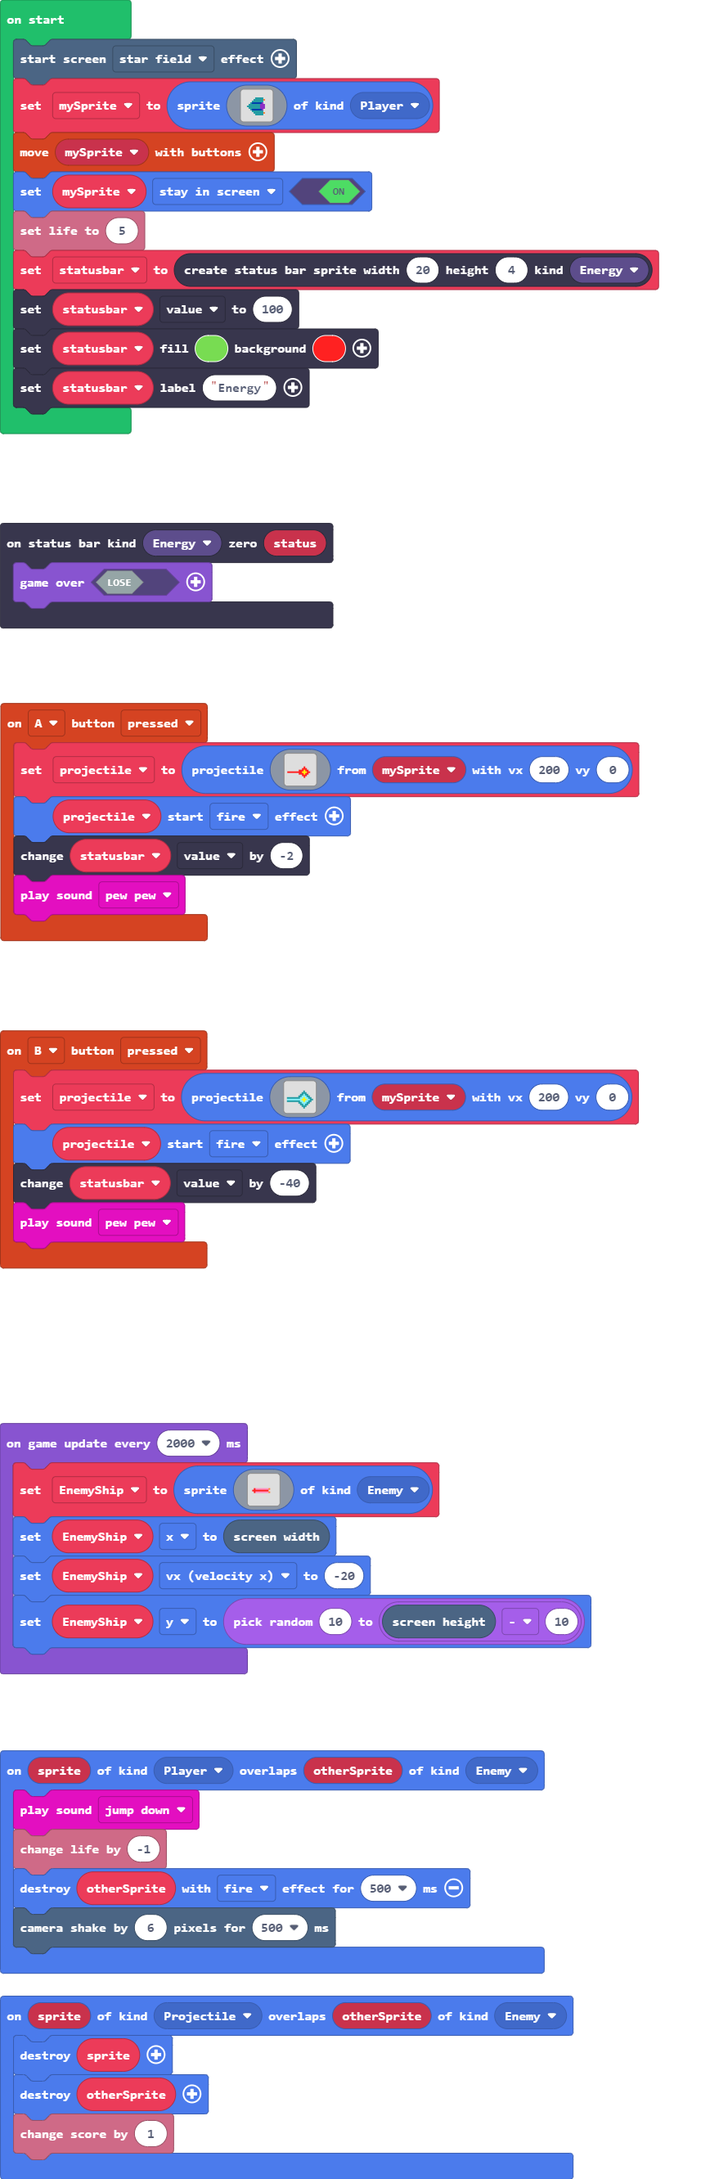
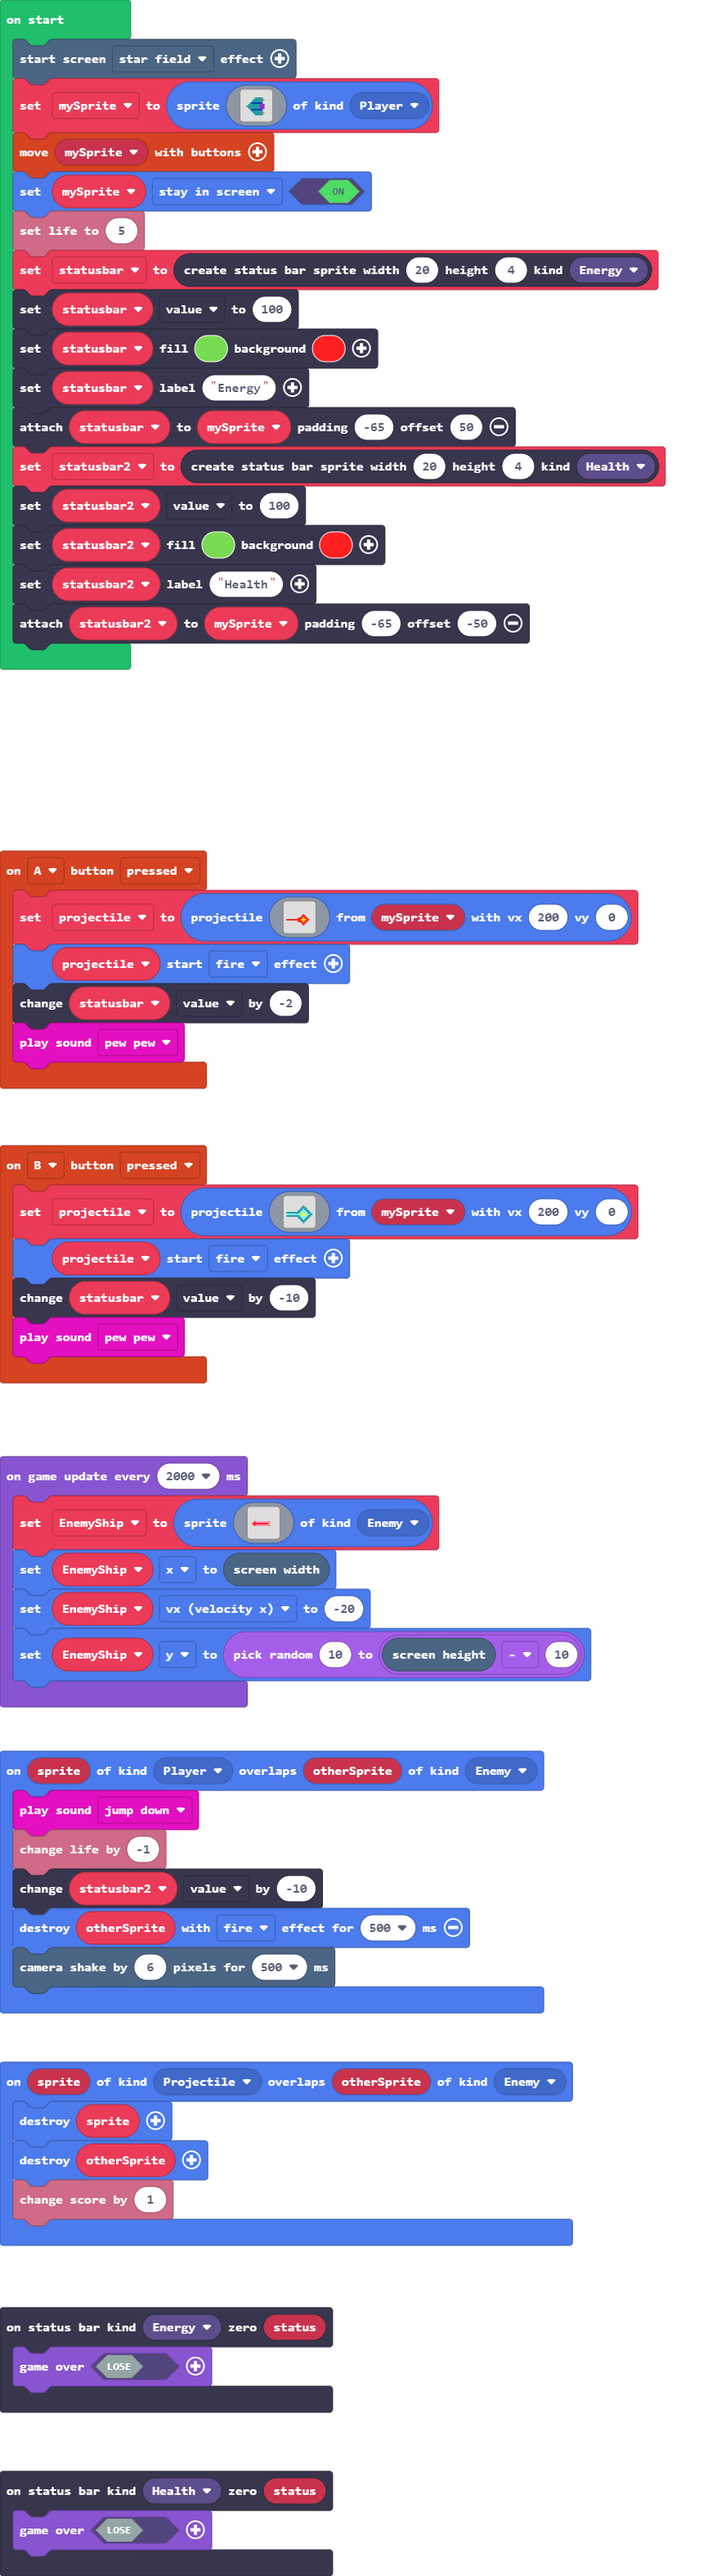
Update main.blocks, main.ts

diff --git a/main.ts b/main.ts
@@ -18,7 +18,7 @@ controller.B.onEvent(ControllerButtonEvent.Pressed, function () {
         . . . . . . . . . . . . . . . . 
         `, mySprite, 200, 0)
     projectile.startEffect(effects.fire)
-    statusbar.value += -40
+    statusbar.value += -10
     music.pewPew.play()
 })
 controller.A.onEvent(ControllerButtonEvent.Pressed, function () {
@@ -44,6 +44,9 @@ controller.A.onEvent(ControllerButtonEvent.Pressed, function () {
     statusbar.value += -2
     music.pewPew.play()
 })
+statusbars.onZero(StatusBarKind.Health, function (status) {
+    game.over(false)
+})
 statusbars.onZero(StatusBarKind.Energy, function (status) {
     game.over(false)
 })
@@ -55,11 +58,13 @@ sprites.onOverlap(SpriteKind.Projectile, SpriteKind.Enemy, function (sprite, oth
 sprites.onOverlap(SpriteKind.Player, SpriteKind.Enemy, function (sprite, otherSprite) {
     music.jumpDown.play()
     info.changeLifeBy(-1)
+    statusbar2.value += -10
     otherSprite.destroy(effects.fire, 500)
     scene.cameraShake(6, 500)
 })
 let EnemyShip: Sprite = null
 let projectile: Sprite = null
+let statusbar2: StatusBarSprite = null
 let statusbar: StatusBarSprite = null
 let mySprite: Sprite = null
 effects.starField.startScreenEffect()
@@ -88,6 +93,12 @@ statusbar = statusbars.create(20, 4, StatusBarKind.Energy)
 statusbar.value = 100
 statusbar.setColor(7, 2)
 statusbar.setLabel("Energy")
+statusbar.attachToSprite(mySprite, -65, 50)
+statusbar2 = statusbars.create(20, 4, StatusBarKind.Health)
+statusbar2.value = 100
+statusbar2.setColor(7, 2)
+statusbar2.setLabel("Health")
+statusbar2.attachToSprite(mySprite, -65, -50)
 game.onUpdateInterval(2000, function () {
     EnemyShip = sprites.create(img`
         . . . . . . . . . . . . . . . . 
